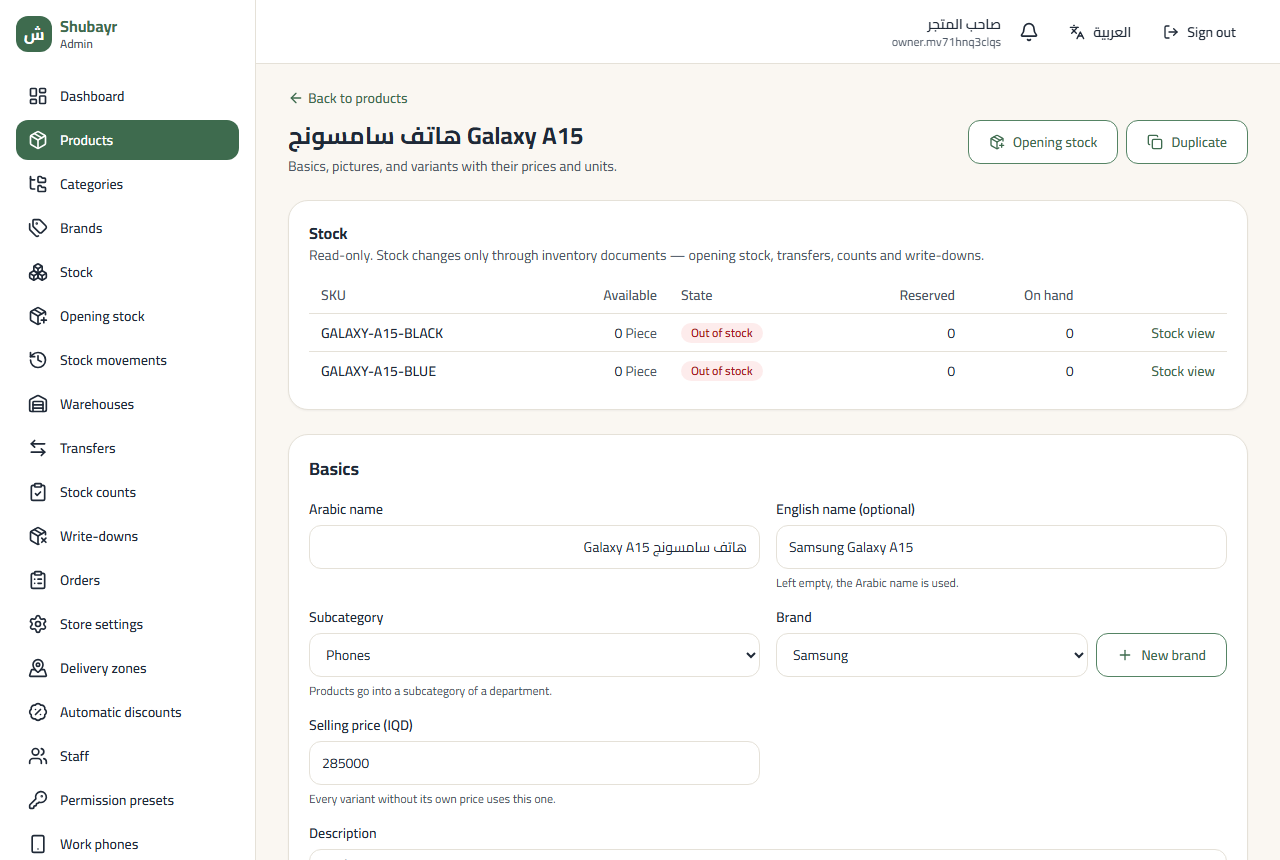
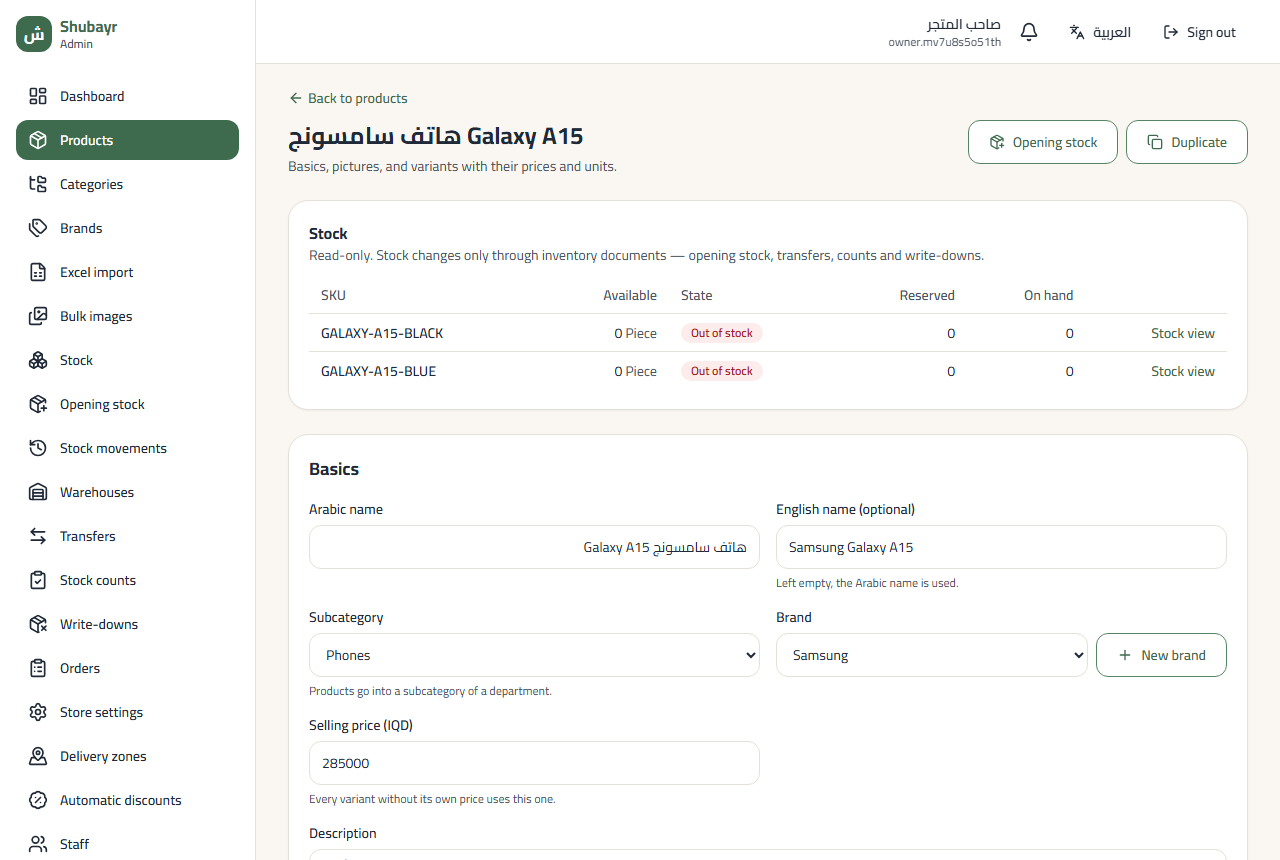
docs(owner-guide): section 6 screenshots (import preview, bulk images); regenerate on clean data

diff --git a/admin/tests/docs/owner-guide.spec.ts b/admin/tests/docs/owner-guide.spec.ts
@@ -341,7 +341,8 @@ for (const locale of LOCALES) {
       await page.goto("/catalog/import");
       await hydrated(page, "import-file");
       await page.getByTestId("import-file").setInputFiles({
-        name: locale === "ar" ? "منتجات-جديدة.xlsx" : "new-products.xlsx",
+        // An ASCII name: the API decodes multipart file names as Latin-1 (backend gap).
+        name: "new-products.xlsx",
         mimeType: "application/vnd.openxmlformats-officedocument.spreadsheetml.sheet",
         buffer: workbook,
       });
